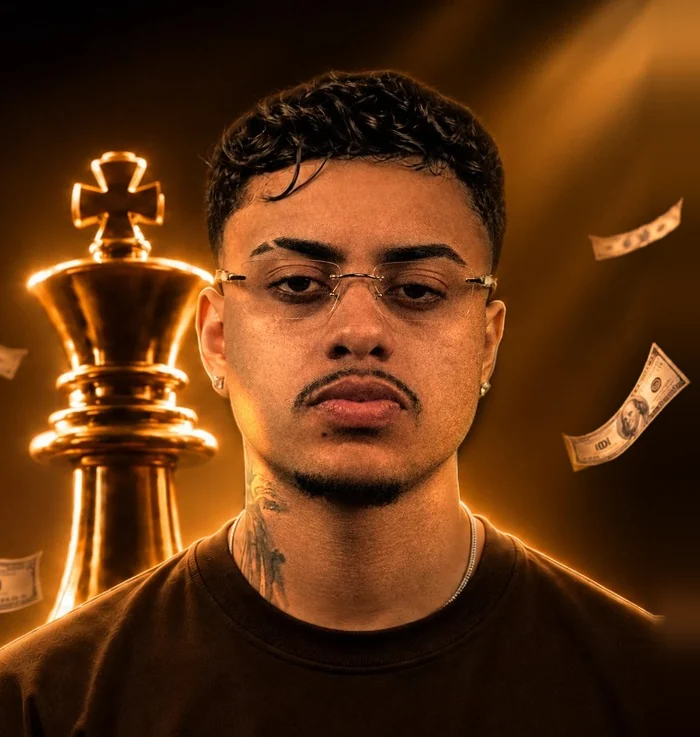
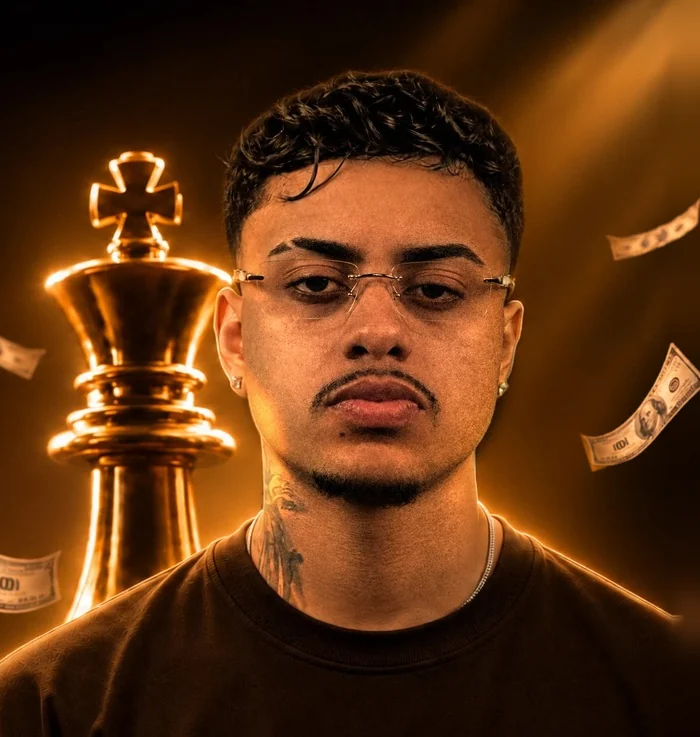
Hero mobile: composição ~10px para a direita
Claude-Session: https://claude.ai/code/session_01BLTcZpwwpWmSLn86UuK6mC

diff --git a/educacional.html b/educacional.html
@@ -11,11 +11,11 @@
 <meta name="theme-color" content="#070605">
 
 <link rel="preload" as="image" href="assets/hero-desktop.webp?v=1795059457" media="(min-width: 1080px)">
-<link rel="preload" as="image" href="assets/hero-mobile.webp?v=1795060081" media="(max-width: 1079px)">
+<link rel="preload" as="image" href="assets/hero-mobile.webp?v=1795060134" media="(max-width: 1079px)">
 <link rel="preload" as="font" type="font/woff2" href="assets/fonts/Syne-Bold.woff2" crossorigin>
 <link rel="preload" as="font" type="font/woff" href="assets/fonts/InterTight-Variable.woff" crossorigin>
 
-<link rel="stylesheet" href="assets/site.css?v=1795060081">
+<link rel="stylesheet" href="assets/site.css?v=1795060134">
 </head>
 <body data-ribbon-words="Autoridade|Eventos|Experiências|Estratégia|Posicionamento|Conhecimento|Expansão|Educação">
 

diff --git a/index.html b/index.html
@@ -11,11 +11,11 @@
 <meta name="theme-color" content="#070605">
 
 <link rel="preload" as="image" href="assets/hero-desktop.webp?v=1795059457" media="(min-width: 1080px)">
-<link rel="preload" as="image" href="assets/hero-mobile.webp?v=1795060081" media="(max-width: 1079px)">
+<link rel="preload" as="image" href="assets/hero-mobile.webp?v=1795060134" media="(max-width: 1079px)">
 <link rel="preload" as="font" type="font/woff2" href="assets/fonts/Syne-Bold.woff2" crossorigin>
 <link rel="preload" as="font" type="font/woff" href="assets/fonts/InterTight-Variable.woff" crossorigin>
 
-<link rel="stylesheet" href="assets/site.css?v=1795060081">
+<link rel="stylesheet" href="assets/site.css?v=1795060134">
 </head>
 <body data-ribbon-words="Autoridade|Eventos|Educação|Identidade visual|Instagram|Sites|Vídeos|Posicionamento">
 

diff --git a/assets/site.css b/assets/site.css
@@ -394,7 +394,7 @@ section{position:relative}
 @media (max-width:1079px){
   .hero{display:block;min-height:0;padding:0 0 110px}
   .hero__bg{position:relative;bottom:auto;right:auto;height:min(105vw,620px);width:min(100%,calc(min(105vw,620px) * .95));margin-inline:auto;
-    background:url("hero-mobile.webp?v=1795060081") center / cover no-repeat;
+    background:url("hero-mobile.webp?v=1795060134") center / cover no-repeat;
     -webkit-mask-image:linear-gradient(90deg,transparent 0%,#000 16%,#000 84%,transparent 100%);
             mask-image:linear-gradient(90deg,transparent 0%,#000 16%,#000 84%,transparent 100%)}
   .hero__bg::after{background:linear-gradient(0deg,var(--bg) 0%,rgba(7,6,5,0) 26%)}

diff --git a/digital.html b/digital.html
@@ -14,7 +14,7 @@
 <link rel="preload" as="font" type="font/woff2" href="assets/fonts/Syne-Bold.woff2" crossorigin>
 <link rel="preload" as="font" type="font/woff" href="assets/fonts/InterTight-Variable.woff" crossorigin>
 
-<link rel="stylesheet" href="assets/site.css?v=1795060081">
+<link rel="stylesheet" href="assets/site.css?v=1795060134">
 </head>
 <body data-ribbon-words="Identidade visual|Design|Instagram|Sites|Vídeos|Captação|Posicionamento|Presença digital">
 
